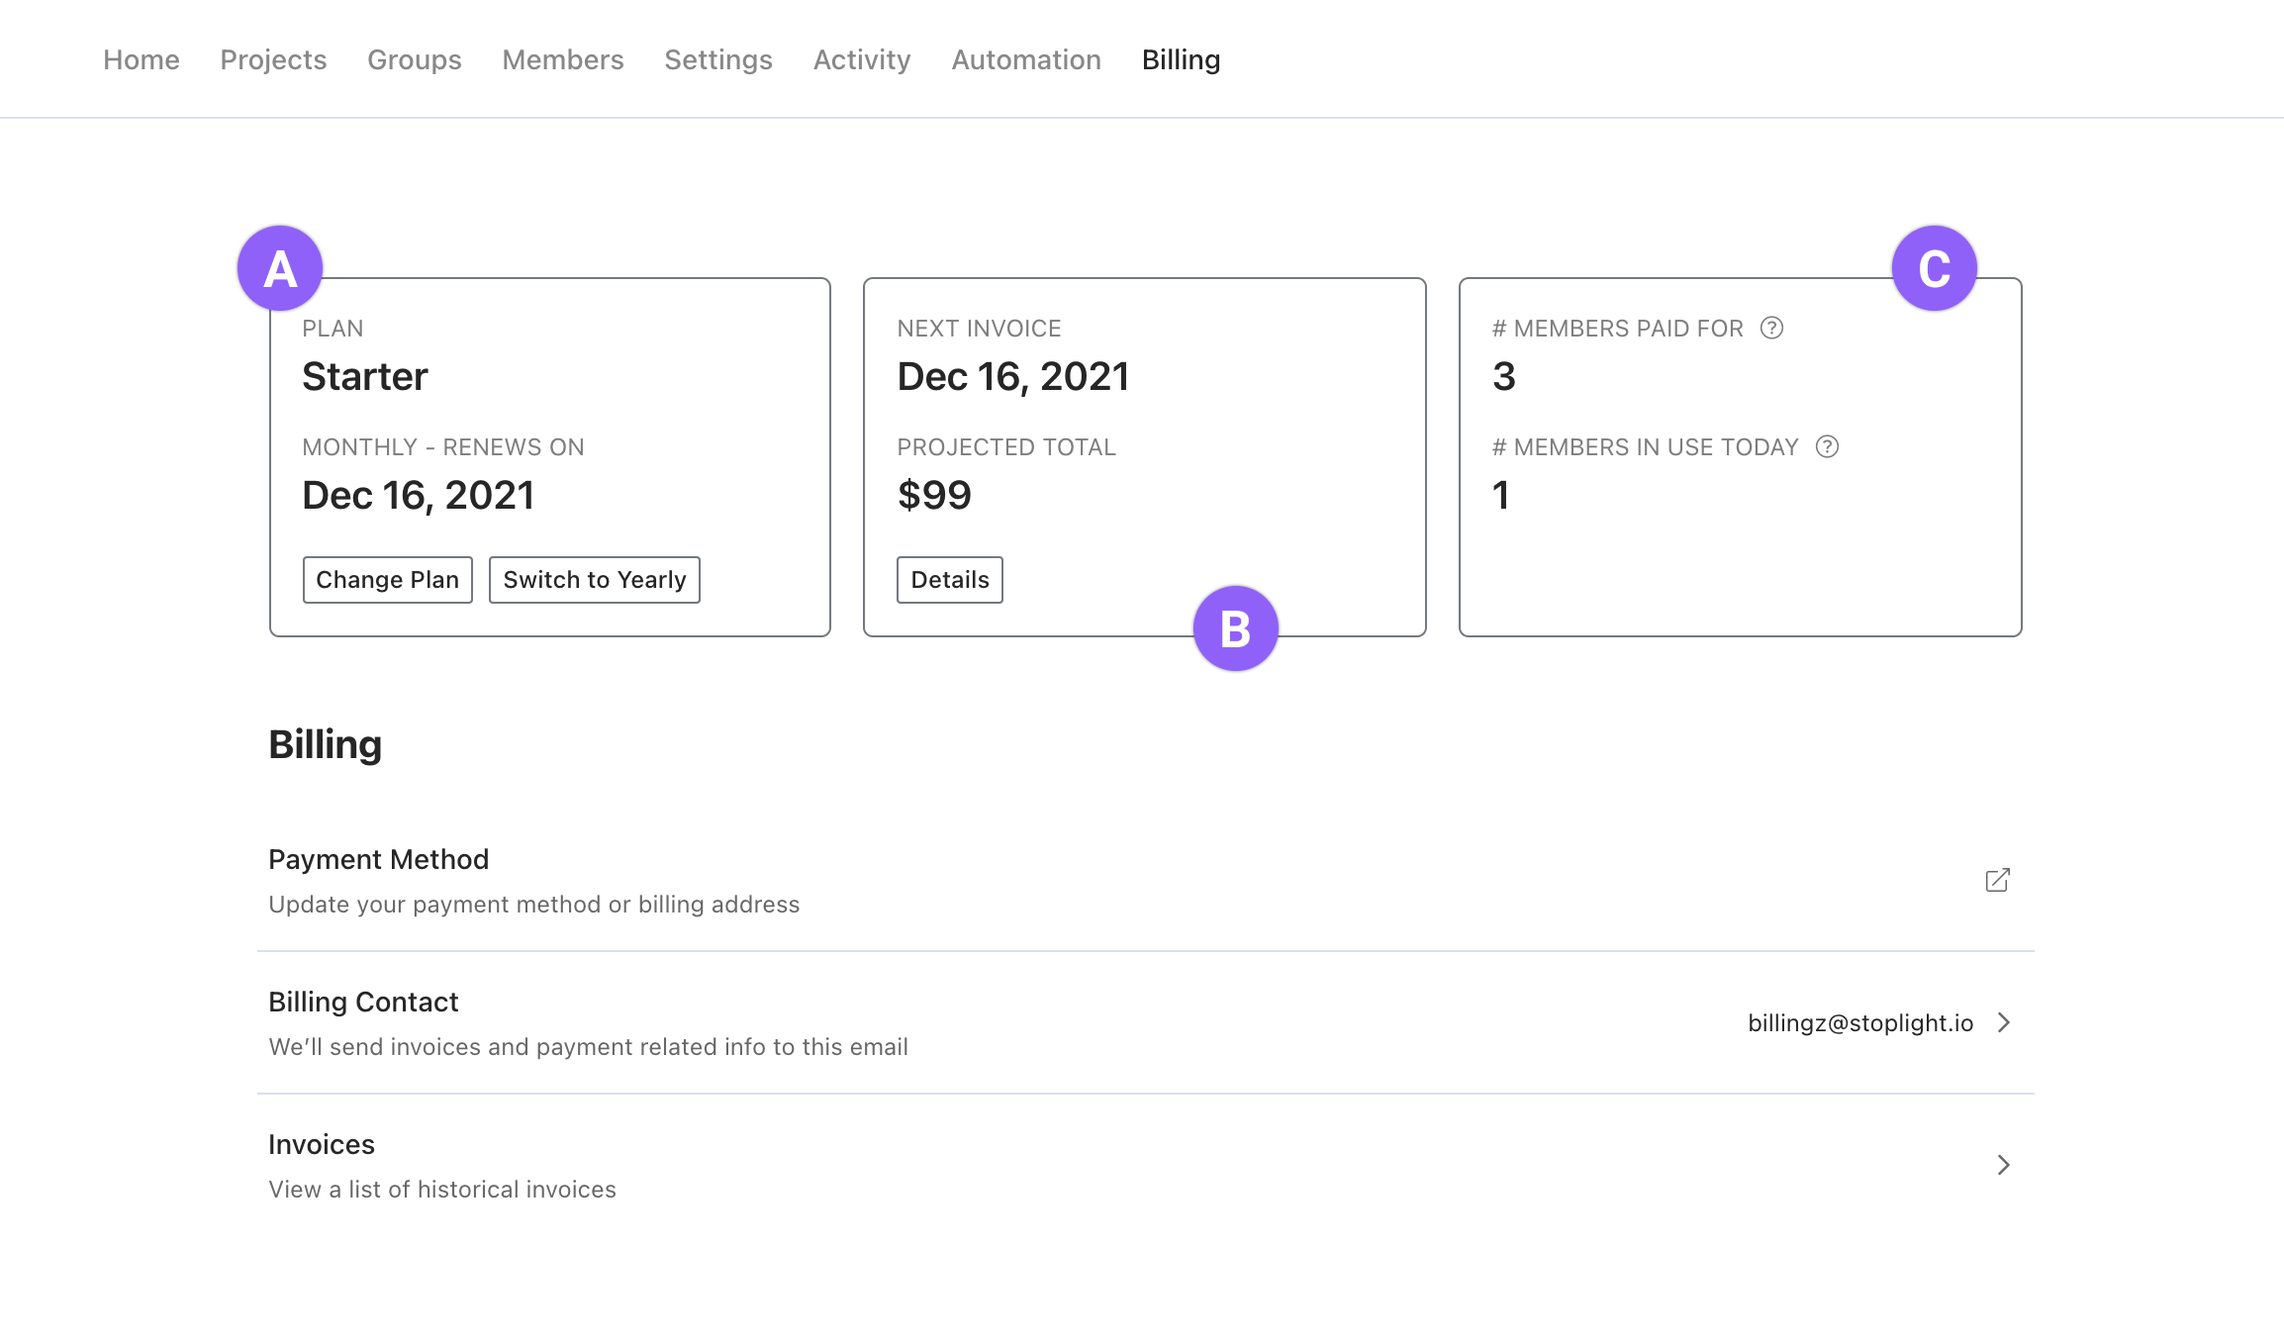
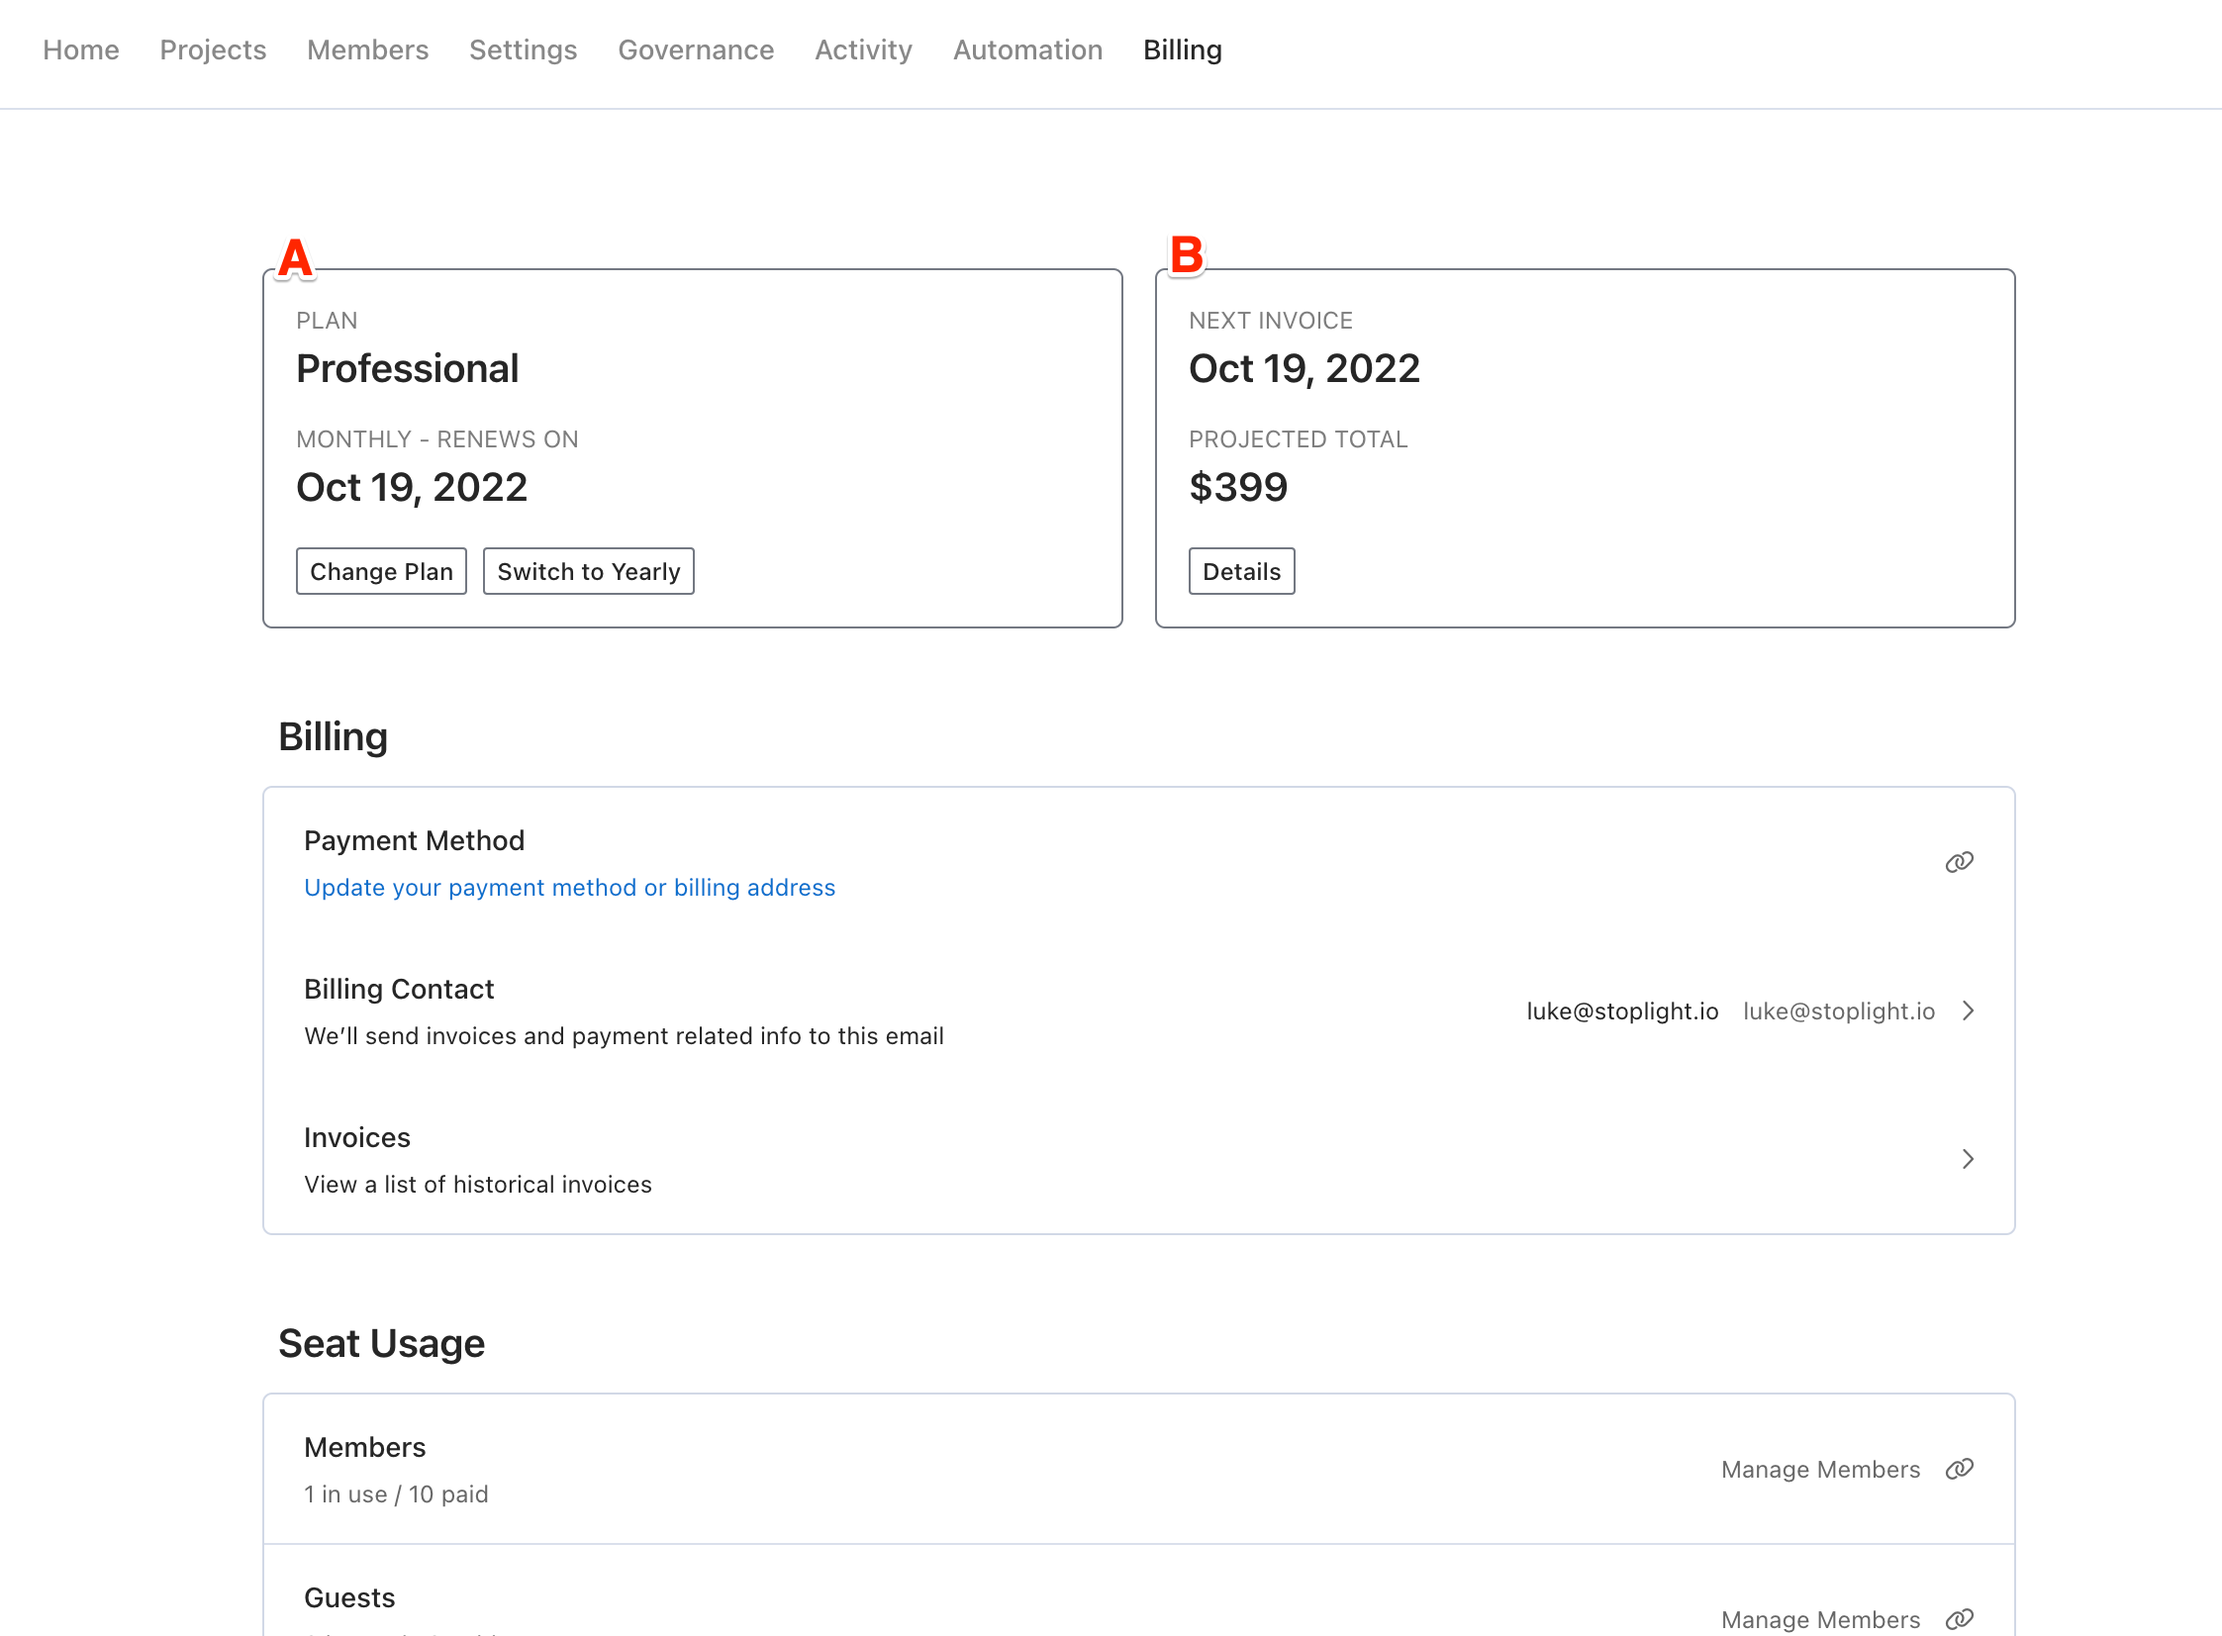
Update to Billing docs (#523)

diff --git a/2.-workspaces/billing.md b/2.-workspaces/billing.md
@@ -1,47 +1,63 @@
 # Billing
 
-Stoplight currently has three paid plans: Starter, Professional, and Enterprise. Your Stoplight workspace includes features that enable a self-serve billing process. This article offers guidance on managing your billing account, subscription, and payments.
+Stoplight currently has three paid plans: **Starter**, **Professional**, and **Enterprise**. Your Stoplight workspace includes features that enable a self-serve billing process. This article offers guidance on managing your billing account, subscription, and payments.
 
 <!-- markdown-link-check-disable-next-line -->
-Contact Stoplight's support team via the [Support Center](https://support.stoplight.io/hc/en-us/requests/new) for assistance if you experience any billing issues.
+Contact Stoplight's support team via the [Support Center](https://support.stoplight.io/) for assistance if you experience any billing issues.
 
 ## Billing Dashboard
 
-Manage your workspace billing via the billing dashboard. You must be logged in and have the `owner` or `billing admin` role to access the **Billing** tab.
+![Workspace billing tab, showing a workspace on the Professional plan](../assets/images/billing-dashboard.png)
 
-![billing dashboard overview](../assets/images/billing-dashboard.png)
+Manage your workspace billing via the billing dashboard. You must be logged in and have the owner, billing admin, or admin role to access the **Billing** tab.
 
-### `[A]` Current Subscription
+### A - Current Subscription
 
 See an overview of your active subscription.
 
-- **Plan**: The plan associated with your active subscription. One of `Free`, `Starter`, `Professional`, or `Enterprise`.
-- **Monthly - renews on**: Displays your billing interval (`monthly` or `yearly`), and your subscription renewal date. For monthly subscriptions, this date will always equal the "Next Invoice" date (from `[B]`).
-- **Change Plan**: Press this button if you want to upgrade or cancel your subscription.
-- **Switch to Yearly**: Press this button if you want to change your billing interval from a monthly subscription to a yearly subscription. Note that this button only displays if you are currently on a monthly subscription.
+- **Plan**: The plan associated with your active subscription. One of Free, Starter, Professional, or Enterprise.
+- **Monthly - Renews On**: Displays your billing interval (monthly or yearly), and your subscription renewal date. For monthly subscriptions, this date will always equal the "Next Invoice" date.
+- **Change Plan**: Select this if you want to upgrade or cancel your subscription.
+- **Switch to Yearly**: Select this if you want to change your billing interval from a monthly subscription to a yearly subscription. Note that this button only displays if you are currently on a monthly subscription.
 
-### `[B]` Current Billing Period
+### B - Current Billing Period
 
 Information about your current billing period and next invoice.
 
 - **Next invoice**: The date of your next invoice. This will display your next [true-up](#quarterly-true-up) invoice date for yearly subscriptions unless you are in the fourth quarter of your annual billing cycle.
 - **Projected total**: The expected total of your next invoice is based on the current number of member seats in use, the number of member seats included in your base plan, and the number of member seats you have already paid for during this billing cycle.
-- **Details**: Press to see a breakdown of your next invoice. Note that this projection won't reflect a coupon if one is active on your subscription. However, the coupon will apply when the invoice is issued.
+- **Details**: Select to see a breakdown of your next invoice. Note that this projection won't reflect a coupon if one is active on your subscription. However, the coupon will apply when the invoice is issued.
 
-### `[C]` Usage
+### Usage
+
+![Workspace billing tab, showing the Seat Usage and Workspace Usage sections with number of Members, Guest, and Current Projects](../assets/images/billing-dashboard-usage.png)
 
 Information about your billable usage.
 
-- **# Members paid for**: The total number of member seats you have paid for in this billing cycle.
-- **# Members in use today**: The number of member seats currently in use in your workspace. If you are on a yearly subscription and the number of seats exceeds the members you have paid for, you will be issued a [true-up billing](#quarterly-true-up) invoice at the 3/6/9 month mark. This information is also reflected in the **Projected total** from `[B]`.
+#### Seats Usage
+
+Seats usage includes a detailed view of total workspace users and the assigned limits for your workspace in this billing cycle. Depending on the subscription plan you have, you will see:
+
+- **Members**: Members are workspace users with the Viewer, Maker, Admin, Billing Admin, or Owner roles.
+- **Guests**: Guests are workspace users with the Guest role. 
+- **Viewers**: Viewers are workspace users with the Viewer role.
+- **Makers+**: Makers+ are workspace users with the Maker, Admin, Billing Admin, or Owner roles.
+
+See [Workspace Roles](k.workspace-roles.md) for more details about roles.
+
+If you are on a yearly subscription and the number of seats exceeds the members you have paid for, you will be issued a [true-up billing](#quarterly-true-up) invoice at the three/six/nine month mark. This information is also reflected in the **Projected total**.
+
+#### Workspace Usage
+
+Workspace usage includes information about the total number of projects in the workspace, and the maximum number of projects allowed based on your plan.
 
 ## Manage Billing
 
 ### Upgrade Plan
 
-To upgrade your plan from `Starter` to `Professional`, navigate to your billing dashboard and select **Change Plan**.
+To upgrade your plan from Starter to Professional, navigate to your billing dashboard and select **Change Plan**.
 
-If you are interested in the `Enterprise` plan, [contact the Stoplight sales team](mailto:sales@stoplight.io).
+If you are interested in the Enterprise plan, [contact the Stoplight sales team](mailto:sales@stoplight.io).
 
 ### Change Payment Method
 
@@ -51,13 +67,13 @@ To change your payment method, navigate to your billing dashboard and select **P
 
 ### Change Billing Contact
 
-Stoplight emails invoice receipts and open/past due invoice notifications to the primary billing contact. The billing contact email address **doesn't** need to be associated with a member of the workspace. This can save you a seat in certain situations. For example, you could set the billing contact email to `payables@yourco.com`, even though `payables@yourco.com` isn't a member of your workspace.
+Stoplight emails invoice receipts and open/past due invoice notifications to the primary billing contact. The billing contact email address **doesn't** need to be associated with a member of the workspace. This can save you a seat in certain situations. For example, you could set the billing contact email to payables@yourco.com, even though payables@yourco.com isn't a member of your workspace.
 
 Navigate to your billing dashboard and select "Billing Contact" to change your primary billing contact. This will open a form for you to adjust the billing contact email.
 
 ### Change Billing Interval
 
-Workspaces on a monthly subscription can switch to a yearly subscription at any time by navigating to the billing dashboard and pressing the **Switch to Yearly** button.
+Workspaces on a monthly subscription can switch to a yearly subscription at any time by navigating to the billing dashboard and selecting the **Switch to Yearly** button.
 
 You will be invoiced for a new yearly subscription **at the end of your current monthly billing cycle**. You may cancel/revert this decision before the end of your current monthly cycle if you change your mind!
 
@@ -65,13 +81,13 @@ You will be invoiced for a new yearly subscription **at the end of your current 
 
 ### View Past Invoices
 
-In your workspace billing dashboard, press **Invoices**. This will display your invoice history in descending order. The most recent invoice is at the top. For each invoice, Stoplight will include:
+In your workspace billing dashboard, select **Invoices**. This will display your invoice history in descending order. The most recent invoice is at the top. For each invoice, Stoplight will include:
 
-- Date invoice was created
-- Description of the invoice
-- The number of member seats paid for. Note that each plan includes some member seats as part of the base cost, which is included in this count. For example, if you are the only member of your workspace when you subscribe, and the plan you subscribe to includes 3 member seats as part of its base cost, the number of member seats paid for in the invoice list will be "3."
-- The billed amount in $USD
-- Invoice status, with a link to pay or view the invoice details. Press **View Invoice** for paid invoices or **Pay Invoice** for open or past due invoices.
+- Date invoice was created.
+- Description of the invoice.
+- The number of member seats paid for. Note that each plan includes some member seats as part of the base cost, which is included in this count. For example, if you are the only member of your workspace when you subscribe, and the plan you subscribe to includes three member seats as part of its base cost, the number of member seats paid for in the invoice list will be "3."
+- The billed amount in $USD.
+- Invoice status, with a link to pay or view the invoice details. Select **View Invoice** for paid invoices or **Pay Invoice** for open or past due invoices.
 
 <!-- focus: center -->
 
@@ -91,21 +107,17 @@ Open invoices can be found in the invoices list via your workspace billing dashb
 
 ### Failed Payments
 
-If you have a credit card on file, Stoplight will automatically attempt to charge it. Every now and then a subscription payment may fail. Stoplight will attempt the payment again up to 3 times. If this is unsuccessful, workspace `owners`, `billing admins`, and the billing contact will be notified by email.
+If you have a credit card on file, Stoplight will automatically attempt to charge it. If a credit card payment fails, Stoplight will attempt the payment again up to three times. If this is unsuccessful, workspace owners, billing admins, and the billing contact will be notified by email.
 
-If your payment fails 3 times, Stoplight may temporarily lock your workspace. During this time, you will only be able to view your projects, but not edit them.
+If your payment fails three times, Stoplight may temporarily lock your workspace. During this time, you will only be able to view your projects, but not edit them.
 
 To unlock your workspace, you will need to make a successful payment. To force another payment attempt, you can update your payment method.
 
 Once you have made a successful payment, your workspace will be unlocked automatically and edit access will be restored.
 
-<!-- markdown-link-check-disable -->
+If you are facing ongoing issues with failed payments or a locked workspace, contact Stoplight's support team via the [Support Center](https://support.stoplight.io/) for assistance.
 
-If you are facing ongoing issues with failed payments or a locked workspace, contact Stoplight's support team via the [Support Center](https://support.stoplight.io/hc/en-us/requests/new) for assistance.
-
-<!-- markdown-link-check-enable -->
-
-> Tip! The most common causes for failed payments are insufficient funds or an expired credit card.
+> **Note**: The most common causes for failed payments are insufficient funds or an expired credit card.
 
 ## Renewals
 
@@ -135,11 +147,9 @@ You won't be billed if the number of members has remained unchanged from quarter
 
 A short example true-up scenario:
 
-![billing true-up example](../assets/images/billing-true-up-example.png)
-
-1. This workspace subscribed to the `Starter` plan on September 16, 2021.
-2. `A` - They **were using/paid for 10 member seats** at the time of their subscription.
-3. `B` - In the months following their original subscription, they **added 7 more members** to their workspace, bringing their total members in use today to 17.
-4. `C` - Since they're using 7 more member seats than they have paid for, their billing dashboard indicates that their **next true-up invoice is projected to be $378**.
-5. `D` - Pressing on the "Details" button shows a breakdown of the projected true-up invoice. In this case, 7 additional members for the three quarters remaining on this billing cycle.
+1. A workspace subscribed to the Starter plan on September 16, 2021.
+2. They were using/paid for 10 member seats at the time of their subscription.
+3. In the months following their original subscription, they added 7 more members to their workspace, bringing their total members in use today to 17.
+4. Since they're using 7 more member seats than they have paid for, their billing dashboard indicates that their next true-up invoice is projected to be higher than the Starter plan base price.
+5. Selecting **Details** under "Projected Total" shows a breakdown of the projected true-up invoice. In this case, 7 additional members for the three quarters remaining on this billing cycle.
 6. Workspace owners and billing admins will receive emails on December 2nd (14 days prior) and December 13th (3 days prior), notifying them of the upcoming true-up invoice. This gives them time to adjust membership as needed before the invoice is finalized on December 16th. In this example, if all 7 members are removed before December 16th, bringing the # members in use today down to 10, then there will be no additional bill. On the other hand, it's possible for the true-up invoice to increase if the number of members in the workspace increases beyond 17 before the invoice is issued on December 16th.
